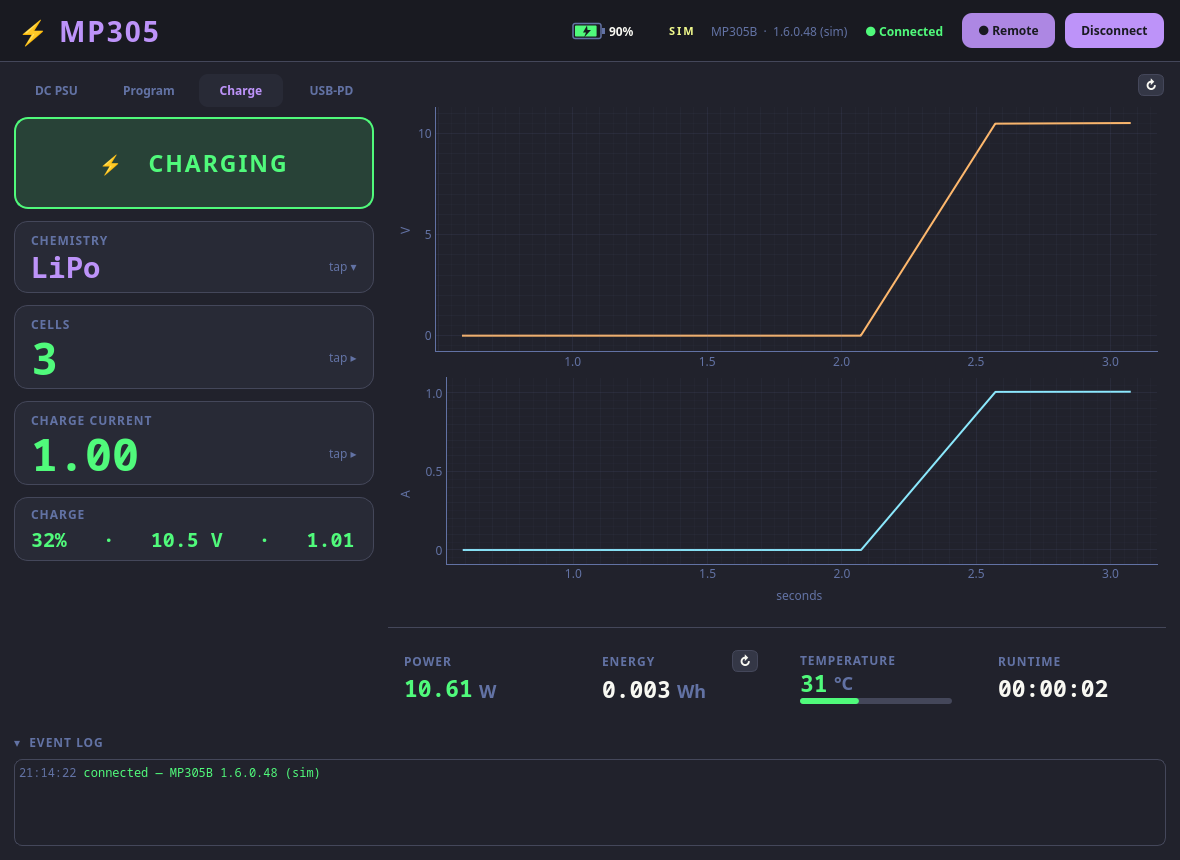
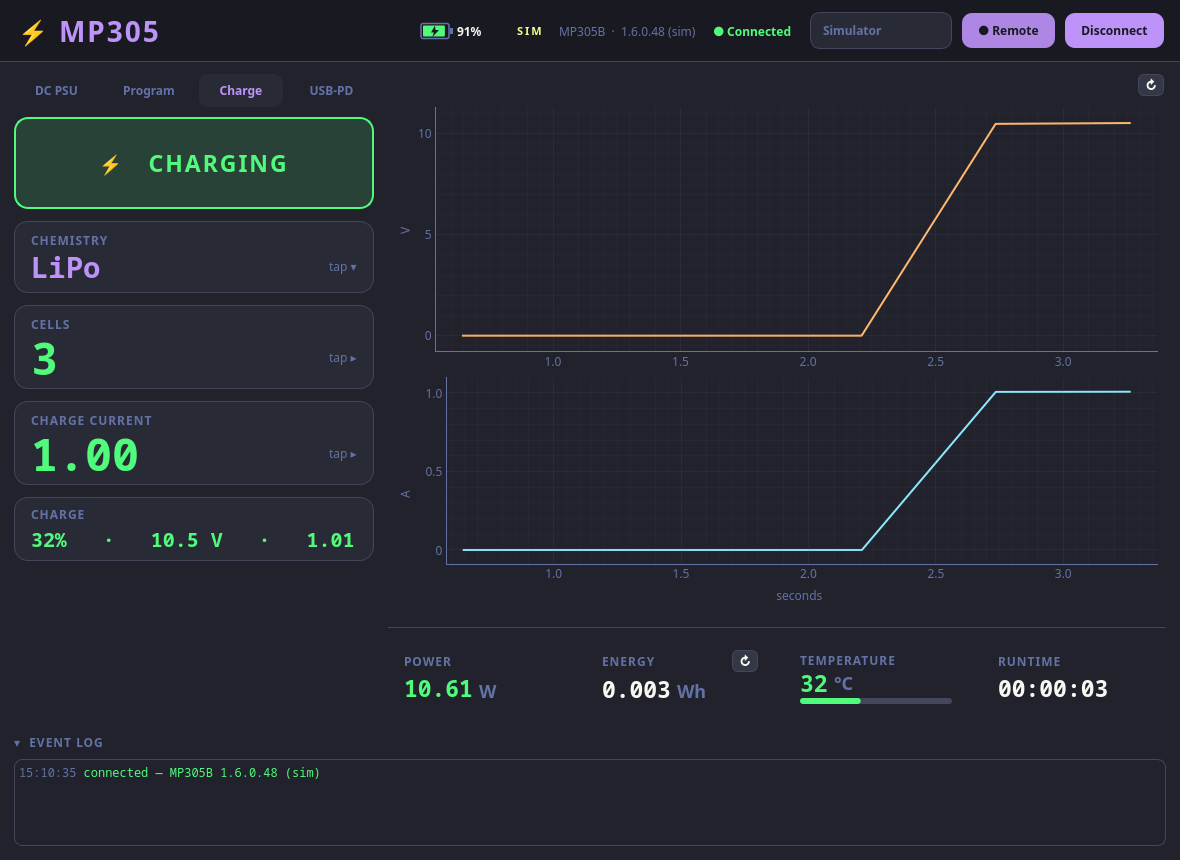
GUI: dark keypad/dialog + styled transport selector; refresh all screenshots
- Fix keypad + picker dialogs rendering with the light system palette (missing a
  QDialog background rule) — they now match the dark theme in the real app, not
  just screenshots.
- Style the USB/BLE/Simulator transport selector (was an unstyled white combobox).
- Regenerate all screenshots to show the transport selector and the dark keypad;
  dashboard is real MP305B hardware over USB.
- gui/README: note BLE as a supported transport and that DC control is verified
  over Bluetooth.

Changed region(s): [[0.4271, 0.0, 0.7932, 0.0605], [0.3356, 0.0302, 0.3966, 0.0605]]

diff --git a/gui/mp305gui/theme.py b/gui/mp305gui/theme.py
@@ -30,6 +30,7 @@ C = {
 STYLESHEET = f"""
 * {{ font-family: "Inter", "Segoe UI", "Bahnschrift", sans-serif; color: {C['text']}; }}
 QWidget#root {{ background: {C['bg']}; }}
+QDialog {{ background: {C['bg']}; }}   /* keypad + pickers — else they use the light system palette */
 QFrame.card {{
     background: {C['card']}; border: 1px solid {C['stroke']}; border-radius: 14px;
 }}
@@ -70,6 +71,18 @@ QSlider::handle:horizontal:hover {{ background: {C['accent']}; }}
 QLabel#pill {{
     background: {C['card_hi']}; border: 1px solid {C['stroke']}; border-radius: 11px;
     padding: 3px 12px; font-size: 12px; font-weight: 700; color: {C['muted']};
+}}
+QComboBox {{
+    background: {C['card_hi']}; border: 1px solid {C['stroke']}; border-radius: 10px;
+    padding: 8px 12px; font-weight: 700; min-width: 92px; color: {C['text']};
+}}
+QComboBox:hover {{ background: {C['stroke']}; }}
+QComboBox:disabled {{ color: {C['muted']}; background: {C['card']}; }}
+QComboBox::drop-down {{ border: none; width: 22px; }}
+QComboBox QAbstractItemView {{
+    background: {C['card']}; border: 1px solid {C['stroke']}; border-radius: 8px;
+    color: {C['text']}; selection-background-color: {C['accent']}; selection-color: {C['panel']};
+    outline: none; padding: 4px;
 }}
 QToolTip {{ background: {C['card']}; color: {C['text']}; border: 1px solid {C['stroke']}; }}
 QScrollBar:vertical {{ background: transparent; width: 10px; margin: 2px 2px 2px 0; }}

diff --git a/gui/README.md b/gui/README.md
@@ -10,10 +10,11 @@ action is a deliberate pointer click on a large target; nothing alters the outpu
 casual gesture (in particular there is **no scroll-to-change** — a stray scroll must never
 move the voltage on a live DUT).
 
-> Runs against a real MP305 (via `pymp305`/`hidapi`) **or** a built-in simulator, so you can
-> try it with no hardware. The dashboard above is a real **MP305B** (DC into a 390 Ω load); the
-> other mode shots are the simulator. DC / mode-switch / USB-PD / programmable control are
-> **verified on hardware**; charge control and the MP305A are not yet confirmed.
+> Runs against a real MP305 over **USB or Bluetooth** (via `pymp305`), **or** a built-in
+> simulator, so you can try it with no hardware. The dashboard above is a real **MP305B** (DC
+> into a 390 Ω load); the other mode shots are the simulator. DC / mode-switch / USB-PD /
+> programmable control are **verified on hardware over USB**, and DC control is also **verified
+> over Bluetooth**; charge control and the MP305A are not yet confirmed.
 
 ## Run
 

diff --git a/CHANGELOG.md b/CHANGELOG.md
@@ -26,8 +26,12 @@ All notable changes to `pymp305`. Versions follow semver (pre-1.0: minor = featu
   **USB / Bluetooth / Simulator** selector in the top bar switches transport (while
   disconnected), or launch with `run.py --ble`. `BleBackend` wraps `MP305BLE` through a
   sync-bridge (a dedicated asyncio loop thread), reusing all of `RealBackend`'s per-mode logic.
+- **Dark keypad/dialog fix** — the keypad and pickers were falling back to the light system
+  palette (a `QDialog` background rule was missing); they now match the dark theme. Styled the
+  transport selector to match too.
 - Refreshed all screenshots on the current dark theme; added a **Program-mode** screenshot
-  (button-group step editor). The dashboard shot is real MP305B hardware.
+  (button-group step editor) and the top-bar transport selector. The dashboard shot is real
+  MP305B hardware.
 - Fixed two hint labels that clipped in the left panel (PD "set on device", Program header).
 
 ### Library
